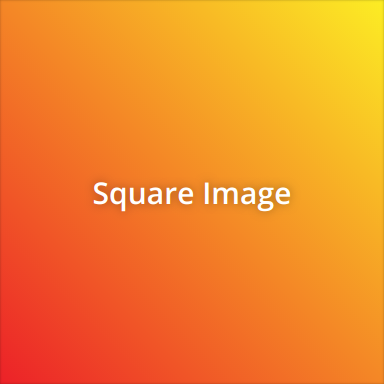
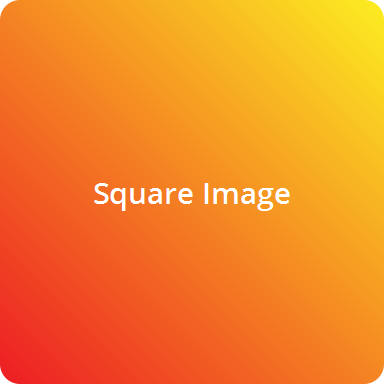
tweaked test image apperance

diff --git a/images/test-rectangles.html b/images/test-rectangles.html
@@ -10,7 +10,7 @@
             font-size: 30px;
             font-weight: 600;
             margin: 0.5in;
-            text-shadow: 0 0 15px rgba(0,0,0,0.35);
+            border-radius: 20px;
         }
         .wide {
             width: 10in;
@@ -29,6 +29,7 @@
         }
     </style>
     <body>
+        <!-- Conveniently convert this code to a transparent png: http://www.hiqpdf.com/demo/ConvertHtmlToImage.aspx -->
         <div class="wide">
             Wide Image
         </div>
